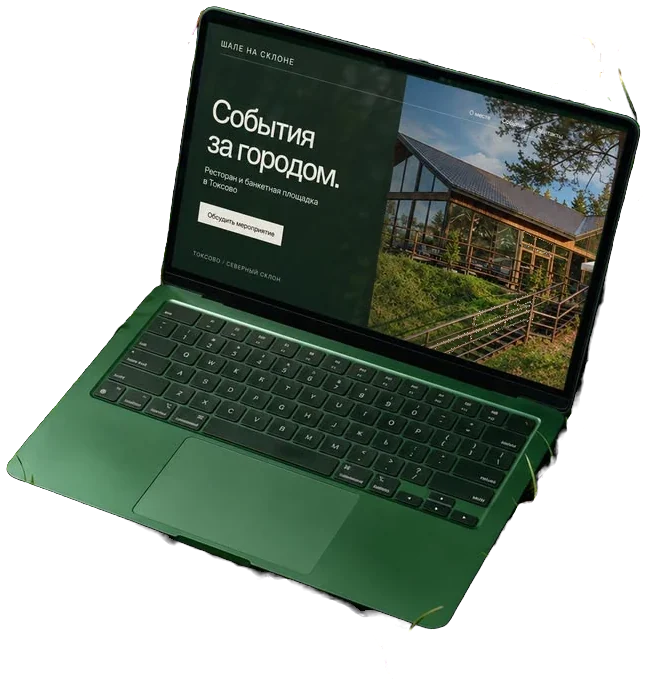
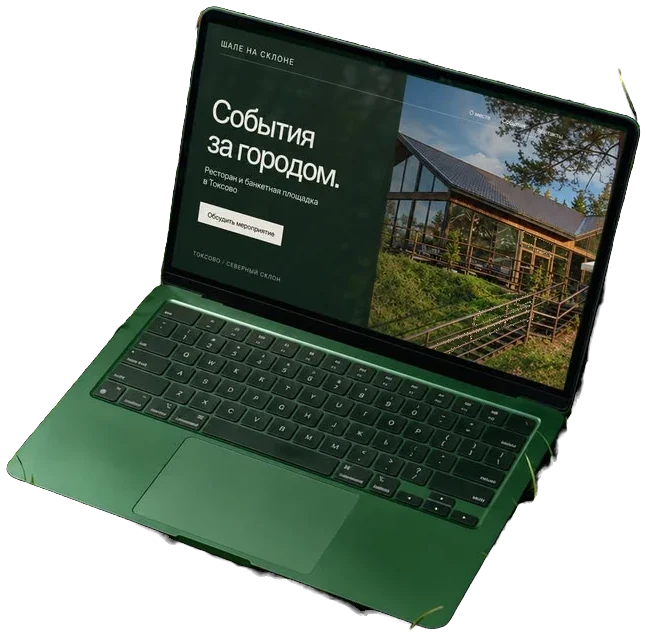
Rapikan tampilan HP: model 3D kategori di atas teks, efek sentuh tidak nyangkut, foto terpotong diperbaiki

Changed region(s): [[0.0, 0.0298, 0.9892, 1.0], [0.3709, 0.0, 0.4019, 0.0298], [0.3091, 0.0, 0.34, 0.0298]]

diff --git a/js/data.js b/js/data.js
@@ -216,7 +216,6 @@ const PHOTOS = [
   ['watch-6', 'watch', 'Apple Watch SE', 'Gold & Midnight', 3999000, 4499000, 'Fitur penting seperti deteksi jatuh dan SOS dengan harga lebih hemat.'],
   ['watch-7', 'watch', 'Apple Watch Series 8 Green', 'Hijau & Hitam', 5999000, 6499000, 'Tali sport dua warna dengan pemantauan kesehatan lengkap.'],
   ['watch-8', 'watch', 'Apple Watch Ultra 2', 'Titanium Natural', 13999000, 14999000, 'Tersedia dengan tali Alpine Loop oranye atau abu, untuk petualang.'],
-  ['watch-9', 'watch', 'Apple Watch Series 7 Blue', 'Biru & Gold', 5499000, 5999000, 'Dilengkapi EKG untuk memantau irama jantung kapan saja.'],
   ['console-0', 'console', 'DualSense Dragon Edition', 'Merah Naga', 1699000, 1899000, 'Controller PS5 custom dengan motif naga dan aksen merah krom.'],
   ['console-1', 'console', 'DualSense Red Stripe', 'Putih Merah', 1399000, 1599000, 'Controller PS5 custom dengan garis merah yang tegas.'],
   ['console-2', 'console', 'Gamepad Arc Mobile', 'Putih', 599000, 749000, 'Gamepad berdesain unik untuk main game di HP dan tablet.'],
@@ -246,7 +245,6 @@ const PHOTOS = [
   ['speaker-6', 'speaker', 'Soundbar Slim Black', 'Hitam', 1799000, 2099000, 'Soundbar tipis untuk TV dan laptop, suara lebih lebar.'],
   ['speaker-7', 'speaker', 'Speaker Prism Aluminium', 'Silver Hitam', 1199000, 1399000, 'Bodi aluminium berbentuk prisma dengan grill di depan.'],
   ['speaker-8', 'speaker', 'Speaker Navy Box', 'Navy', 699000, 849000, 'Speaker persegi panjang warna navy dengan tombol di atas.'],
-  ['macbook-0', 'macbook', 'MacBook Air 13" Space Gray', 'Space Gray', 13999000, 14999000, 'Laptop tipis andalan buat kuliah dan kerja, layar Retina dengan keyboard yang empuk.'],
   ['macbook-1', 'macbook', 'MacBook Pro 13" Space Gray', 'Space Gray', 19999000, 21499000, 'Layar Retina 13 inci yang terang, cocok untuk coding dan desain ringan.'],
   ['macbook-2', 'macbook', 'MacBook Pro 13" Retina Silver', 'Silver', 12999000, 13999000, 'Bodi unibody aluminium klasik dengan port lengkap di sisi kanan.'],
   ['macbook-3', 'macbook', 'MacBook Pro 16" Silver', 'Silver', 34999000, 37499000, 'Layar 16 inci yang lega dengan lid aluminium polos yang elegan.'],

diff --git a/css/style.css b/css/style.css
@@ -369,8 +369,9 @@ a.news-card:hover h3 { text-decoration: underline; text-underline-offset: 3px; }
   .buy-form { padding: 16px; }
   .tiles { grid-template-columns: 1fr; }
   .tile.wide { grid-column: auto; }
-  .tile { min-height: 260px; }
-  .tile .v3d, .tile.wide .v3d { width: 60%; }
+  .tile { min-height: 430px; }
+  .tile .v3d, .tile.wide .v3d { left: 0; right: 0; top: 0; width: auto; height: 58%; }
+  .shop-head .ghost { display: none; }
   .grid { gap: 10px; }
   .card-body { padding: 10px 12px 14px; }
   .card h3 { font-size: 15px; }
@@ -385,4 +386,11 @@ a.news-card:hover h3 { text-decoration: underline; text-underline-offset: 3px; }
   .badge { width: 104px; height: 104px; }
   .faces i { width: 38px; height: 38px; line-height: 32px; }
   .shop-bar { flex-direction: column; align-items: flex-start; }
+}
+
+/* layar sentuh: jangan biarkan efek hover 'nyangkut' setelah disentuh */
+@media (hover: none) {
+  .card:hover, .tile:hover, a.news-card:hover, .pill-btn:hover { transform: none; box-shadow: none; }
+  .card:hover .card-media > img { transform: none; }
+  .add-btn:hover { background: var(--ink); color: #fff; transform: none; }
 }

diff --git a/shop.html b/shop.html
@@ -18,7 +18,7 @@
     <section class="shop-head panel">
       <span class="ghost" aria-hidden="true">SHOP</span>
       <h1 class="display-md" id="shop-title">SEMUA <mark>PRODUK</mark></h1>
-      <p>Original, bergaransi, dan bisa diputar 3D di halaman masing-masing.</p>
+      <p>Original dan bergaransi resmi. Produk berlabel 3D bisa kamu putar di halamannya.</p>
       <div class="filters" role="toolbar" aria-label="Filter kategori" id="filters"></div>
     </section>
     <section class="section">

diff --git a/README.md b/README.md
@@ -42,8 +42,8 @@ python -m http.server 8000
 ## Kredit foto
 
 Sebagian foto produk diambil dari [Unsplash](https://unsplash.com) (Unsplash License), lalu latarnya dihapus:
-Howard Bouchevereau, Rubén Menárguez, Mike Meyers, Immanuel Noah, Yudhajit Ghosh, Quang Vy, Vựa Táo, Giorgio Trovato, dan fotografer Unsplash lain
-(foto `macbook-0..4, 6, 9`, `speaker-1..3, 9`, `earphone-4, 8`, `console-3`, `vr-8`).
+Rubén Menárguez, Mike Meyers, Immanuel Noah, Yudhajit Ghosh, Quang Vy, Vựa Táo, Giorgio Trovato, dan fotografer Unsplash lain
+(foto `macbook-1..4, 6, 9`, `speaker-1..3, 9`, `earphone-4, 8`, `console-3`, `vr-8`).
 
 ---
 
